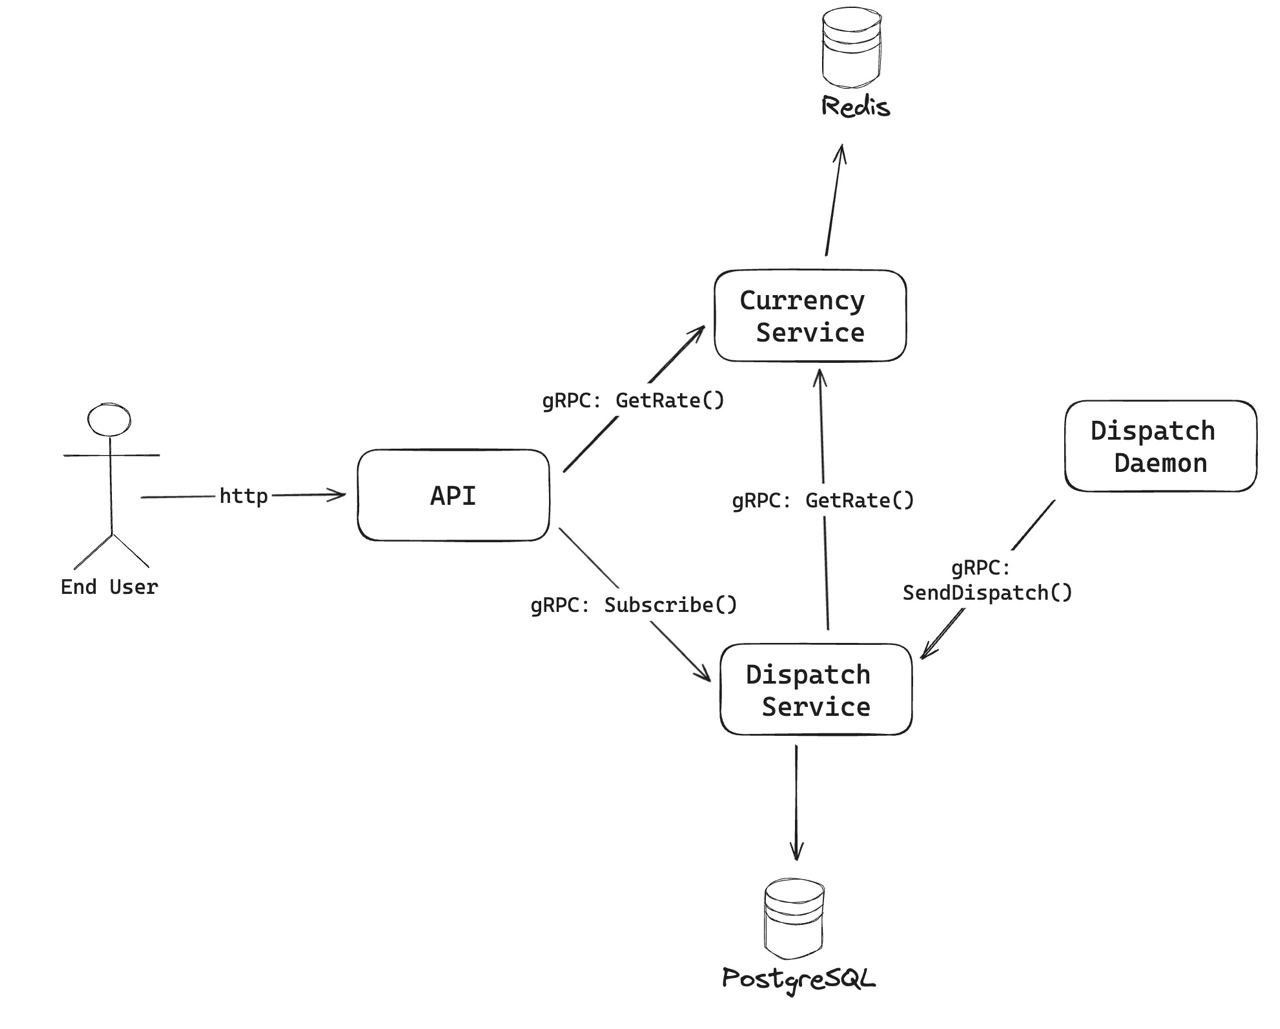
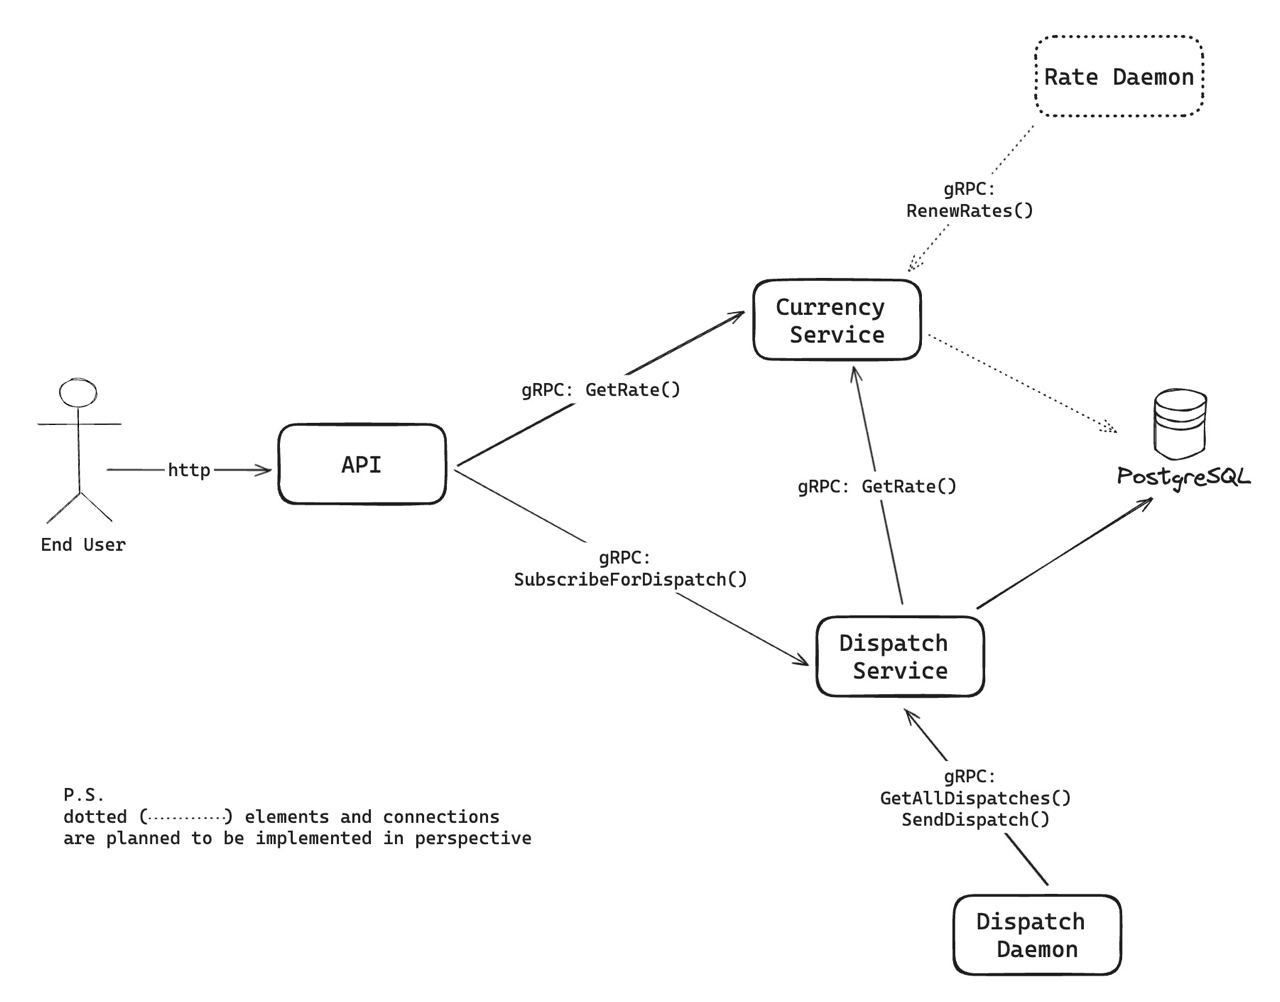
docs: update project description

diff --git a/README.md b/README.md
@@ -8,34 +8,24 @@ API allows:
 
 - __[Go](https://go.dev/)__ as main language.
 - __[gin](https://gin-gonic.com/docs/)__ as web framework.
+- __[mockery](https://vektra.github.io/mockery/latest/)__ for generation of interface mocks.
 - __[PostgreSQL](https://www.postgresql.org/)__ as main storage.
 - __[gRPC](https://grpc.io/)__ for inter-service communication.
 - __[ExchangeRate-API](https://www.exchangerate-api.com/)__ as third-party API for currency rate info.
 
 ## Quick start
 
-1. Get API key from [third-API](https://app.exchangerate-api.com/) and set `EXCHANGE_CURRENCY_API_KEY` value in `docker/default.env`.
-2. Run `make start`.
-
-
-## ER diagram
-
-![ER diagram](docs/er-diagram.png)
-
-1. User can subscribe for one or more dispatches.
-2. User has own table in case there will need to save more data about him.
-3. Dispatch specifies when to send it and what to send in it.
-4. Zero, one or more users can be subscribers of same dispatch.
-5. Dispatch is related to currency, but it is possible that in the future there will be \
-another type of dispatch.
-6. Subscription specifies when to 
-
-I assumed that each user can have multiple subscriptions and multiple users can be subscribed\
-to one dispatch (many-to-many relationship).
-
-There is no information in the task about ability to customize time of dispatch sending \
-(just period - once a day), so I set it default for all subscribers, based on KISS. \
-But it is possible to customize it later if there will be necessity.
+1. Copy example env file with  command below:
+```
+> cp ./.env.example ./env
+```
+2. Get API key from [third-API](https://app.exchangerate-api.com/) and set to `EXCHANGE_CURRENCY_API_KEY` value in `.env`.
+3. Get app password from Google ([instruction](https://support.google.com/mail/answer/185833?hl=en)) and set to `SMTP_PASSWORD` value in `.env`.
+4. Update `SMTP_EMAIL` and `SMTP_USERNAME` values in `.env`.
+5. Start project with command below
+```
+> make start
+```
 
 
 ## Architecture
@@ -43,8 +33,8 @@ But it is possible to customize it later if there will be necessity.
 
 ### Processes
 
-Keeping in mind 6th factor __Processes__ of _12-factor App_ I decided to split app functionality into \
-4 separate processes:
+Keeping in mind 6th factor __Processes__ of _12-factor App_ I splitted app functionality into \
+5 separate processes:
 
 
 1. ___API___ is an entry point for external users of `SubscriptionAPI`. It is web server and\
@@ -60,9 +50,30 @@ sending of dispatches thorough SMTP server to subscribers, and getting info abou
 In perspective it would be able to create dispatches, change dispatches, \
 customize subscriptions etc.
 
-4. __Dispatch Daemon__ (is not implemented for now) is automatic process that periodically \
-gets info about dispatches and invokes dispatch sending.
+4. ___Dispatch Daemon___ is an automatic process that gets info about dispatches, \
+schedules them, and invokes their sending.
 
+5. ___Rate Daemon___  (is not implemented yet) is an automatic process that invokes \
+updating of exchange rates.
+
+
+## ER diagram
+
+![ER diagram](docs/er-diagram.png)
+
+1. User can subscribe for one or more dispatches.
+2. User has own table in case there will need to save more data about him.
+3. Dispatch specifies when to send it and what to send in it.
+4. Zero, one or more users can be subscribers of same dispatch.
+5. Dispatch is related to currency, but it is possible that in the future there will be \
+another type of dispatch.
+
+I assumed that each user can have multiple subscriptions and multiple users can be subscribed\
+to one dispatch (many-to-many relationship).
+
+There is no information in the task about ability to customize time of dispatch sending \
+(just period - once a day), so I set it default for all subscribers, based on KISS. \
+But it is possible to customize it later if there will be necessity.
 
 ## Tests
 There are implemented unit tests for some business logic. In perspective I will cover \
@@ -70,7 +81,6 @@ all business logic with unit and functional tests.
 
 
 ## TODO
-1. Implement dispatch daemon
-2. Implement sending of dispatches to subscribers.
-3. Cache currency rate results for 24 hours
+1. Implement rate daemon
+2. Send welcome email when user subscribes for dispatch
 4. to be continued...
